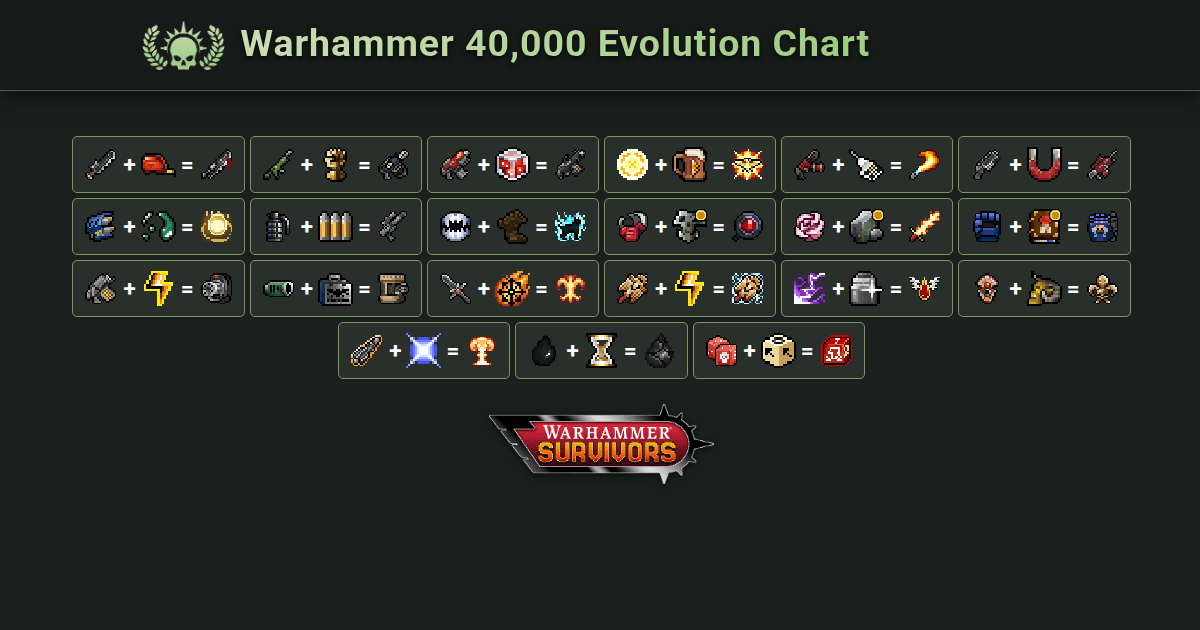
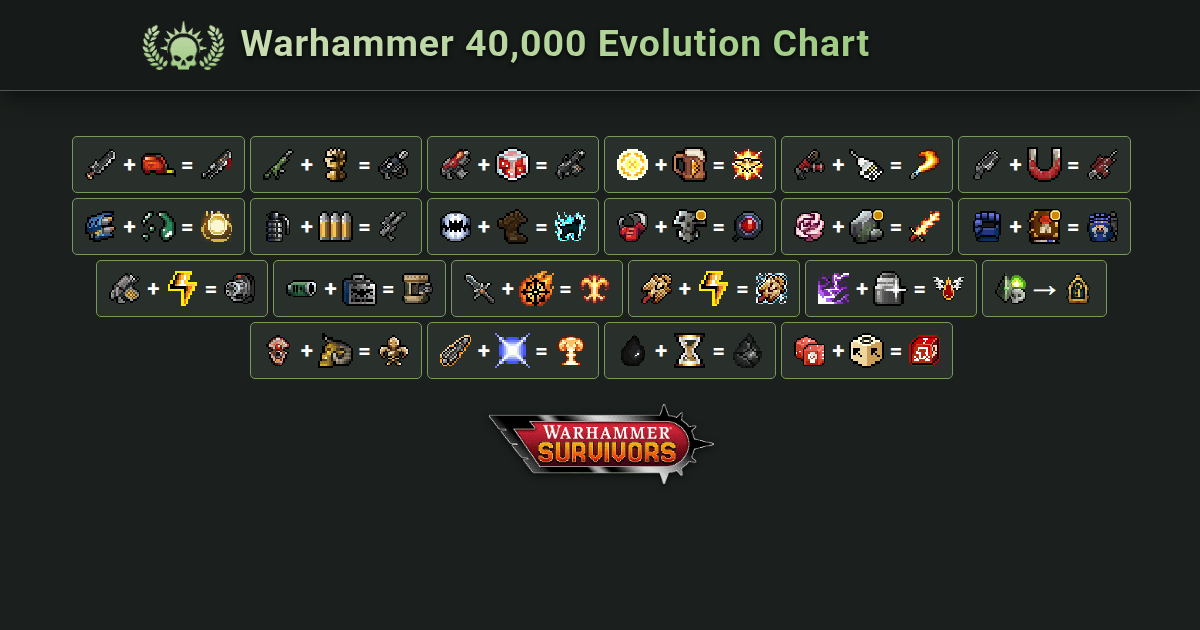
Show evolutions with no passive as weapon → result, explained in the legend
Long-Fusil no longer shows the Amberbone relic as an ingredient or in the
Passives filter: it is Fusil-Cannon → Long-Fusil, and a legend line with
the Amberbone icon explains the morph (relic found on Gnarlwood, level 60
with Juntar Bernskyn). The weapon pickers Archeotech → Reliquary (40K)
and Exotic Weaponry → Artefacts Of Power (AoS) join the charts the same
way, with a legend line for their evolution chest chance.

The extractor marks these recipes with a trigger, and the build fails if
one has no legend note. llms.txt lists the notes under each chart.

Changed region(s): [[0.0617, 0.4222, 0.9558, 0.6032]]

diff --git a/styles/warhammer/items.css b/styles/warhammer/items.css
@@ -48,6 +48,8 @@
[8 lines of base64/hex data omitted]
@@ -61,7 +63,6 @@
[7 lines of base64/hex data omitted]
@@ -90,9 +91,12 @@
[12 lines of base64/hex data omitted]

diff --git a/data/warhammer.ts b/data/warhammer.ts
@@ -8,13 +8,40 @@
 
 import data from "./warhammer.json";
 import { aos, w40k } from "./constants";
-import type { TEvolutionElement, TItem, TItemType, TWeaponEvolution } from "./types";
+import type { TEvolutionElement, TItem, TItemType, TLegendNote, TWeaponEvolution } from "./types";
 
 type TUniverse = typeof w40k | typeof aos;
 type TGameItem = (typeof data.items)[keyof typeof data.items];
+/** A recipe as the extractor writes it (inferred JSON types can't express the empty lists). */
+type TGameEvolution = {
+  weapon: string;
+  passives: string[];
+  max: string[];
+  result: string;
+  /** Set on recipes with no passive: what makes them evolve (see TRIGGER_NOTES). */
+  trigger: "chest" | "special" | null;
+  gift: boolean;
+};
+const gameEvolutions = data.evolutions as TGameEvolution[];
+
+/**
+ * Legend lines for the recipes with no passive (drawn "weapon → result"), keyed
+ * by result. The extractor marks them with a `trigger`; every one needs a note.
+ */
+const CHEST_NOTE = "Small chance to evolve when an evolution chest opens. Higher Chance raises it.";
+const TRIGGER_NOTES: Record<string, { icon: string; text: string }> = {
+  WS_40K_RELIQUARY: { icon: "WS_40K_ARCHEOTECH", text: CHEST_NOTE },
+  WS_AOS_ARTEFACTS_OF_POWER: { icon: "WS_AOS_EXOTIC_WEAPONRY", text: CHEST_NOTE },
+  // The game keeps this condition in code. The relic's description and the
+  // level-60 morph (atma.gg) say how it works.
+  WS_AOS_LONG_FUSIL: {
+    icon: "WS_AOS_RELIC_AMBERBONE",
+    text: "Relic found on Gnarlwood. With it, Juntar Bernskyn's Fusil-Cannon evolves when he reaches level 60.",
+  },
+};
 
 /** Items another recipe starts from: an evolved one among them stays pickable in the Weapons filter. */
-const bases = new Set(data.evolutions.map((evo) => evo.weapon));
+const bases = new Set(gameEvolutions.map((evo) => evo.weapon));
 
 function universe(key: TUniverse) {
   const items = new Map<string, TItem>();
@@ -35,21 +62,32 @@ function universe(key: TUniverse) {
     return found;
   };
 
-  const evolutions: TWeaponEvolution[] = data.evolutions
+  const evolutions: TWeaponEvolution[] = gameEvolutions
     .filter((evo) => items.has(evo.weapon))
     .map((evo, i) => ({
       id: i + 1,
       dlc: key,
-      elements: [
-        { item: item(evo.weapon) },
-        ...evo.passives.flatMap((p): TEvolutionElement[] => [
-          "+",
-          evo.max.includes(p) ? { item: item(p), tags: ["max"] } : { item: item(p) },
-        ]),
-        "=",
-        { item: item(evo.result) },
-      ],
+      elements: evo.trigger
+        ? [{ item: item(evo.weapon) }, "→", { item: item(evo.result) }]
+        : [
+            { item: item(evo.weapon) },
+            ...evo.passives.flatMap((p): TEvolutionElement[] => [
+              "+",
+              evo.max.includes(p) ? { item: item(p), tags: ["max"] } : { item: item(p) },
+            ]),
+            "=",
+            { item: item(evo.result) },
+          ],
     }));
+
+  const notes: TLegendNote[] = gameEvolutions
+    .filter((evo) => evo.trigger && items.has(evo.weapon))
+    .map((evo) => {
+      const note = TRIGGER_NOTES[evo.result];
+      if (!note) throw new Error(`warhammer.ts: no legend note for ${evo.result} (${evo.trigger})`);
+      const icon = item(note.icon);
+      return { icon: icon.image, name: icon.name, text: note.text };
+    });
 
   // Only items that appear in this universe's recipes, in recipe order.
   const used = new Map<string, TItem>();
@@ -59,7 +97,7 @@ function universe(key: TUniverse) {
   const ofType = (type: TItemType) =>
     Object.fromEntries([...used].filter(([, it]) => it.type === type));
 
-  return { evolutions, weapons: ofType("weapon"), passives: ofType("passive") };
+  return { evolutions, weapons: ofType("weapon"), passives: ofType("passive"), notes };
 }
 
 export const warhammer40k = universe(w40k);

diff --git a/lib/llms.ts b/lib/llms.ts
@@ -26,6 +26,9 @@ function chartSection(chart: TChart, siteUrl: string): string {
     if (chart.dlcs.length > 1) lines.push("", `### ${DLC_LABELS[dlc].full}`);
     lines.push("", ...evos.map((e) => `- ${recipe(e.elements)}`));
   }
+  if (chart.notes?.length) {
+    lines.push("", "Notes:", "", ...chart.notes.map((n) => `- ${n.name}: ${n.text}`));
+  }
   return lines.join("\n");
 }
 
@@ -35,7 +38,7 @@ export function buildLlmsTxt(charts: TChart[], siteUrl: string): string {
     "",
     "> Interactive charts of every weapon evolution in Vampire Survivors (base game and all DLCs) and in Warhammer Survivors (Warhammer 40,000 and Age of Sigmar). Filter by the weapons and passives you have to see what they evolve into.",
     "",
-    'Notation: "+" combines items, "=" gives the evolution, "⇒" leads to the next stage of a chained evolution (Bracelet ⇒ Bi-Bracelet ⇒ Tri-Bracelet). "(max level)" marks an item that must be at max level.',
+    'Notation: "+" combines items, "=" gives the evolution, "⇒" leads to the next stage of a chained evolution (Bracelet ⇒ Bi-Bracelet ⇒ Tri-Bracelet), "→" is an evolution with no passive, triggered as the notes under each chart explain. "(max level)" marks an item that must be at max level.',
     "",
     "## Pages",
     "",

diff --git a/lib/charts.test.ts b/lib/charts.test.ts
@@ -82,6 +82,24 @@ describe("warhammer charts", () => {
     expect(resultsFor("aos", "Stormcharged Hammer", "weapon")).toEqual(["Uskavar the Sunderer"]);
   });
 
+  it("draws evolutions with no passive as weapon → result, explained in the legend", () => {
+    const recipe = (key: string, result: string) =>
+      chart(key)
+        .evolutions.find((e) => {
+          const last = e.elements.at(-1)!;
+          return typeof last !== "string" && last.item.name === result;
+        })!
+        .elements.map((el) => (typeof el === "string" ? el : el.item.name));
+    expect(recipe("aos", "Long-Fusil")).toEqual(["Fusil-Cannon", "→", "Long-Fusil"]);
+    expect(recipe("aos", "Artefacts Of Power")).toEqual(["Exotic Weaponry", "→", "Artefacts Of Power"]);
+    expect(recipe("w40k", "Reliquary")).toEqual(["Archeotech", "→", "Reliquary"]);
+
+    expect(Object.keys(chart("aos").passives)).not.toContain("Amberbone");
+    expect(chart("aos").notes!.map((n) => n.name)).toEqual(["Amberbone", "Exotic Weaponry"]);
+    expect(chart("w40k").notes!.map((n) => n.name)).toEqual(["Archeotech"]);
+    expect(chart("vs").notes).toBeUndefined();
+  });
+
   it("treats each universe as its own game", () => {
     for (const key of ["w40k", "aos"]) {
       const c = chart(key);

diff --git a/lib/charts.ts b/lib/charts.ts
@@ -10,7 +10,7 @@ import { passives } from "@/data/passives";
 import { weapons } from "@/data/weapons";
 import { ageOfSigmar, warhammer40k } from "@/data/warhammer";
 import { aos, w40k } from "@/data/constants";
-import type { TDlc, TItem, TWeaponEvolution } from "@/data/types";
+import type { TDlc, TItem, TLegendNote, TWeaponEvolution } from "@/data/types";
 
 export type TChart = {
   key: string;
@@ -31,6 +31,8 @@ export type TChart = {
   items: TItem[];
   /** Icon classes for the legend under the chart, keyed by what the template shows. */
   legend?: Record<string, string>;
+  /** Extra legend lines: "[icon] = text". */
+  notes?: TLegendNote[];
   /** Files whose last commit dates the chart's content (sitemap lastmod, JSON-LD dateModified). */
   sources: string[];
 };

diff --git a/site/templates/chart.html b/site/templates/chart.html
@@ -108,6 +108,12 @@
       {{ <gold_circle cls="size-2.5" /> }}
       <span>=&nbsp;Max level passive</span>
     </div>
+    {%- for note in chart.notes %}
+    <div class="flex items-center gap-1">
+      <span class="ico block size-[1.4rem] shrink-0 {{ note.icon }}" role="img" aria-label="{{ note.name }}"></span>
+      <span>=&nbsp;{{ note.text }}</span>
+    </div>
+    {%- endfor %}
     {%- if chart.legend %}
     <div class="flex items-center gap-1">
       <span class="ico block size-[1.4rem] {{ chart.legend.alucardShield }}" role="img" aria-label="Alucard Shield"></span>

diff --git a/data/types.ts b/data/types.ts
@@ -39,6 +39,15 @@ export type TDlc =
   | typeof w40k
   | typeof aos;
 
+/** A legend line under a chart: "[icon] = text". */
+export interface TLegendNote {
+  /** Icon class. */
+  icon: string;
+  /** Item the icon shows (aria-label, llms.txt). */
+  name: string;
+  text: string;
+}
+
 export interface TWeaponEvolution {
   id: number;
   elements: TEvolutionElement[];

diff --git a/lib/chart-view.ts b/lib/chart-view.ts
@@ -182,6 +182,7 @@ export function buildChartView(chart: TChart) {
       ),
     })),
     legend: chart.legend ?? null,
+    notes: chart.notes ?? [],
   };
 
   return { page, client };

diff --git a/scripts/engineering/extract-warhammer.py b/scripts/engineering/extract-warhammer.py
@@ -52,11 +52,9 @@ LOGOS = {
 # Entries the game leaves unnamed (the name comes from elsewhere at runtime).
 NAME_OVERRIDES = {"WS_40K_ASTRA_MILITARUM_FRAG_GRENADE": "Frag Grenade"}
 
-# Evolutions whose condition is in game code (`hasUniqueRequirements`) rather
-# than in WEAPON_DATA: result -> ITEM_DATA items it needs. Long-Fusil comes with
-# the Fusil-Major morph, which the Amberbone relic unlocks (its ITEM_DATA
-# description: "Allows Juntar Bernskyn to morph into a Fusil-Major").
-UNIQUE_REQUIREMENTS = {"WS_AOS_LONG_FUSIL": ["WS_AOS_RELIC_AMBERBONE"]}
+# ITEM_DATA entries (relics, pickups) whose icons the chart legend shows. They
+# are in no recipe. Amberbone: the relic behind Long-Fusil's morph evolution.
+LEGEND_ICONS = ["WS_AOS_RELIC_AMBERBONE"]
 
 
 def load_lenient_json(text: str):
@@ -108,9 +106,8 @@ def main(game_dir: str) -> None:
 
     # Level 1 carries the item's identity; later levels are stat deltas.
     entries = {gid: levels[0] for gid, levels in tables["WEAPON_DATA"].items()}
-    # Pickups and relics (one entry each, not levelled). Only the ones named in
-    # UNIQUE_REQUIREMENTS are used; they show as passives so they can be filtered.
-    for gid in {g for needs in UNIQUE_REQUIREMENTS.values() for g in needs}:
+    # Relics and pickups (one entry each, not levelled), for legend icons only.
+    for gid in LEGEND_ICONS:
         entry = tables.get("ITEM_DATA", {}).get(gid)
         if entry is None:
             sys.exit(f"{gid} not found in ITEM_DATA")
@@ -124,7 +121,9 @@ def main(game_dir: str) -> None:
             used.append(gid)
 
     for gid, e in entries.items():
-        result = e.get("evoInto")
+        # `addEvolvedWeapon`: a weapon picker (Archeotech, Exotic Weaponry) that can
+        # turn into its evolved picker when an evolution chest opens. No passive.
+        result = e.get("evoInto") or e.get("addEvolvedWeapon")
         if not result:
             continue
         if result not in entries:
@@ -134,16 +133,25 @@ def main(game_dir: str) -> None:
         # `requiresMax`: the passive must be at max level. Bladed Vortex spells it `Requires`.
         maxed = r.get("requiresMax") or []
         requires = (r.get("requires") or r.get("Requires") or []) + maxed
-        if not requires:
-            requires = UNIQUE_REQUIREMENTS.get(result) or e.get("evoSynergy") or []
-        if not requires and not r.get("hasUniqueRequirements"):
-            print(f"note {gid} -> {result}: no requirement in the data", file=sys.stderr)
+        if not requires and not e.get("addEvolvedWeapon"):
+            requires = e.get("evoSynergy") or []
+        # Recipes with no passive have a trigger the chart explains in its legend:
+        # "chest" for the pickers, "special" for a condition kept in game code
+        # (`hasUniqueRequirements`: Long-Fusil, a character morph).
+        trigger = (
+            "chest" if e.get("addEvolvedWeapon")
+            else "special" if r.get("hasUniqueRequirements")
+            else None
+        )
+        if not requires and trigger is None:
+            sys.exit(f"{gid} -> {result}: no requirement in the data")
         evolutions.append(
             {
                 "weapon": gid,
                 "passives": list(dict.fromkeys(requires)),
                 "max": [p for p in dict.fromkeys(requires) if p in maxed],
                 "result": result,
+                "trigger": trigger,
                 # Gift: the base weapon is a character's starting weapon.
                 "gift": bool(entries[result].get("isGiftEvo")),
             }
@@ -152,6 +160,8 @@ def main(game_dir: str) -> None:
         for p in requires:
             use(p)
         use(result)
+    for gid in LEGEND_ICONS:
+        use(gid)
 
     items = {}
     for gid in used:
@@ -160,8 +170,10 @@ def main(game_dir: str) -> None:
         items[gid] = {
             "name": NAME_OVERRIDES.get(gid) or e.get("name") or gid,
             "image": icon_class(gid),
-            "type": "passive"
-            if e.get("isPickup") or e.get("frameName", "").startswith("Passive_")
+            "type": "misc"
+            if e.get("isPickup")
+            else "passive"
+            if e.get("frameName", "").startswith("Passive_")
             else "weapon",
             "evolved": bool(e.get("isEvolution")),
             "silos": silos,
@@ -198,9 +210,10 @@ def main(game_dir: str) -> None:
     name = lambda gid: items[gid]["name"]
     for evo in evolutions:
         silos = "/".join(items[evo["weapon"]]["silos"])
-        arrow = "=> (gift)" if evo["gift"] else "="
+        arrow = f"-> ({evo['trigger']})" if evo["trigger"] else "=> (gift)" if evo["gift"] else "="
         passives = " + ".join(name(p) + (" (max)" if p in evo["max"] else "") for p in evo["passives"])
-        print(f"[{silos}] {name(evo['weapon'])} + {passives} {arrow} {name(evo['result'])}")
+        plus = f" + {passives}" if passives else ""
+        print(f"[{silos}] {name(evo['weapon'])}{plus} {arrow} {name(evo['result'])}")
     print(
         f"wrote {DATA_OUT.relative_to(ROOT)}, {CSS_OUT.relative_to(ROOT)} ({len(css)} icons)"
         f" and {len(LOGOS)} logos in {LOGO_DIR.relative_to(ROOT)}"

diff --git a/context/engineering/guides/warhammer-survivors-update.md b/context/engineering/guides/warhammer-survivors-update.md
@@ -50,8 +50,9 @@ In `WEAPON_DATA`, each item maps to a list of levels; level 1 carries the identi
 - `silos`: which universe(s) the item is in
 - `isEvolution`: the item is an evolved weapon. `isGiftEvo`: gift evolution (base weapon is a character's starting weapon)
 - `requiresMax` on the result: those passives must be at max level (gold badge on the chart). Bladed Vortex spells `requires` as `Requires`
-- `hasUniqueRequirements` on the result: the condition is in game code, not the data. Map it by hand in `UNIQUE_REQUIREMENTS` in the extractor (Long-Fusil needs the Amberbone relic from `ITEM_DATA`)
-- `addEvolvedWeapon` (Archeotech, Exotic Weaponry): "choose any weapon" pickups, not recipes. Left out
+- `hasUniqueRequirements` on the result: the condition is in game code, not the data. The extractor writes the recipe with no passive and `trigger: "special"` (Long-Fusil: the Fusilier morphs at level 60 once the Amberbone relic is found)
+- `addEvolvedWeapon` (Archeotech, Exotic Weaponry): weapon pickers that can turn into their evolved picker when an evolution chest opens. Written with `trigger: "chest"`
+- Recipes with a `trigger` draw as `weapon → result`, and each needs a legend line in `TRIGGER_NOTES` in `data/warhammer.ts` (the build fails without one). Legend icons that are in no recipe (Amberbone, from `ITEM_DATA`) go in `LEGEND_ICONS` in the extractor
 - `hidden` / `placeholder`: not in the level-up pool / unfinished. In the full release `placeholder` is stale (set on shipped items like Executioner Shotgun), so the extractor ignores it. `alwaysHidden` + `isSpecialOnly`: internal sub-weapons (explosions, damage zones), never shown
 - The `*_UnlockAll_StandardEvolution` entries in `ACHIEVEMENT_DATA` list each universe's standard evolution results: a quick cross-check of the printed recipes (gift evolutions are not in it)
 
@@ -77,7 +78,7 @@ Check each of these against the printed recipe list:
 | Item with no `name` in the data | Name shows as a game id, e.g. `WS_40K_...` | Add it to `NAME_OVERRIDES` in the extractor. The demo needed this for the Frag Grenade |
 | Evolution needs a **max-level** passive | | Works as is (`max` in the JSON → `tags: ["max"]`) |
 | Evolved weapon evolves again (Uskavar → Ghal Maraz) | | Works as is: two recipes, the second starts from the first's result |
-| Result has `hasUniqueRequirements` and no `requires` | Recipe prints with no passive | Find the condition (item descriptions in `ITEM_DATA`, `SECRET_DATA`) and add it to `UNIQUE_REQUIREMENTS` |
+| New recipe with no passive (`trigger` set) | Build fails: `no legend note for ...` | Find the condition (item descriptions in `ITEM_DATA`, `SECRET_DATA`, atma.gg) and add a line to `TRIGGER_NOTES` |
 | Unparseable `WEAPON_DATA` | `JSONDecodeError` | The game's JSON has `//` comments, also after values. `load_lenient_json` strips them outside strings; extend it for any new syntax |
 | **Union** (two weapons merge) | Result's `requires` lists a weapon id | Works as is (rendered `A + B = C`). Check how the item renders: anything without a `Passive_` frame counts as a weapon |
 | Evolution needs two passives | | Works as is |
@@ -94,9 +95,8 @@ The collection screen (per universe) lists weapons and passives in
 - **Passives in the collection** = passives not `hidden`
 
 Every weapon in the collection should be in the chart unless it has no
-`evoInto` and is no other weapon's result. In the full release those are the
-pickers Archeotech / Reliquary and Exotic Weaponry / Artefacts of Power, and
-the hidden sub-weapons (K9 Retaliation, Pask/Vahl Squish). Passives that feed
+`evoInto` or `addEvolvedWeapon` and is no other weapon's result. In the full
+release those are the hidden sub-weapons (K9 Retaliation, Pask/Vahl Squish). Passives that feed
 no evolution are left out on purpose, like on the Vampire Survivors page.
 
 This prints what the collection should contain, per universe:
